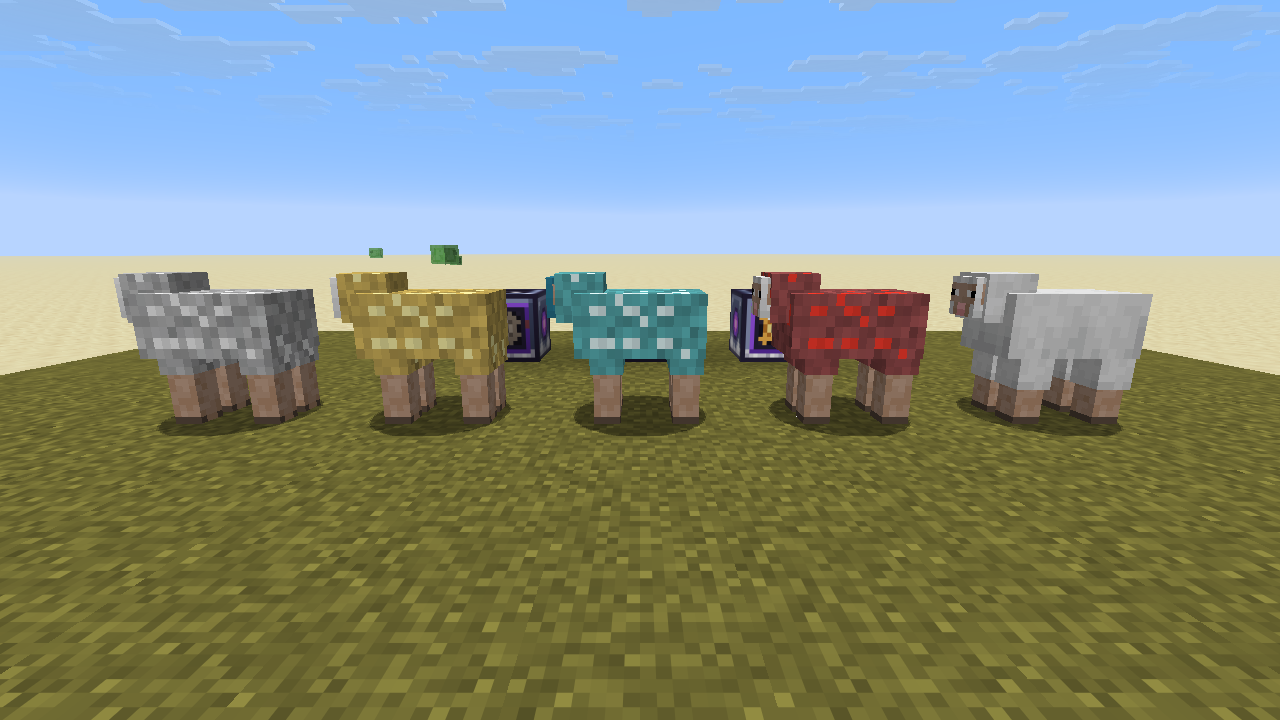
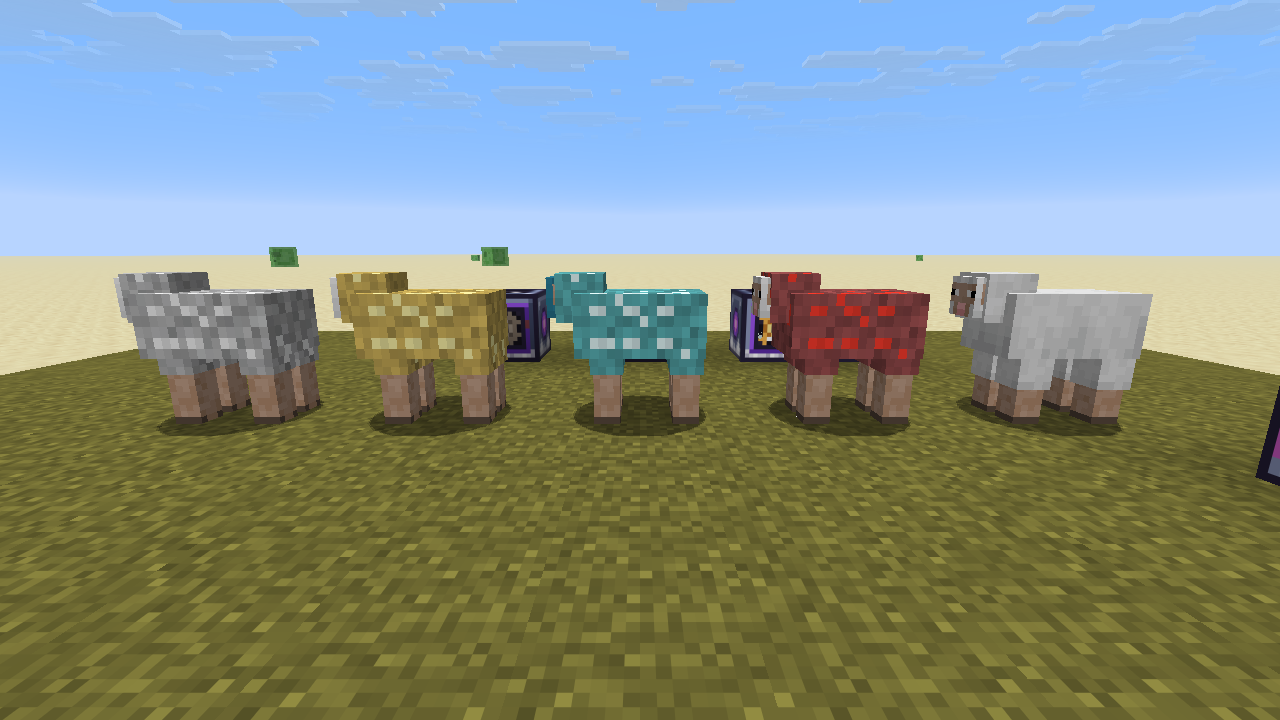
Add Creative Generator: infinite FE block for creative testing
Pushes FE into adjacent receivers every tick (configurable rate) and
offers unlimited extraction on all sides. Creative-only, cartoon-styled
animated texture, JEI info page and a game test.

Claude-Session: https://claude.ai/code/session_012iurxjF5Am1zCyJTywqAyz

diff --git a/src/main/java/com/jax3/resourcefulsheep/blockentity/CreativeGeneratorBlockEntity.java b/src/main/java/com/jax3/resourcefulsheep/blockentity/CreativeGeneratorBlockEntity.java
@@ -1,0 +1,49 @@
+package com.jax3.resourcefulsheep.blockentity;
+
+import com.jax3.resourcefulsheep.config.ModConfigs;
+import com.jax3.resourcefulsheep.registry.ModBlockEntities;
+import net.minecraft.core.BlockPos;
+import net.minecraft.core.Direction;
+import net.minecraft.server.level.ServerLevel;
+import net.minecraft.world.level.block.entity.BlockEntity;
+import net.minecraft.world.level.block.state.BlockState;
+import net.neoforged.neoforge.capabilities.Capabilities;
+import net.neoforged.neoforge.transfer.energy.EnergyHandler;
+import net.neoforged.neoforge.transfer.energy.InfiniteEnergyHandler;
+import net.neoforged.neoforge.transfer.transaction.Transaction;
+
+/** Pushes up to {@code creativeGeneratorOutput} FE per tick into each adjacent energy receiver. */
+public class CreativeGeneratorBlockEntity extends BlockEntity {
+    private long lastTickPushed;
+
+    public CreativeGeneratorBlockEntity(BlockPos pos, BlockState state) {
+        super(ModBlockEntities.CREATIVE_GENERATOR.get(), pos, state);
+    }
+
+    public void serverTick(ServerLevel level, BlockPos pos) {
+        int rate = ModConfigs.getInt(ModConfigs.SERVER.creativeGeneratorOutput);
+        if (rate <= 0) return;
+        long pushed = 0;
+        for (Direction dir : Direction.values()) {
+            BlockPos target = pos.relative(dir);
+            if (level.getBlockEntity(target) instanceof CreativeGeneratorBlockEntity) continue; // avoid generator loops
+            EnergyHandler handler = level.getCapability(Capabilities.Energy.BLOCK, target, dir.getOpposite());
+            if (handler == null) continue;
+            try (Transaction tx = Transaction.openRoot()) {
+                pushed += handler.insert(rate, tx);
+                tx.commit();
+            }
+        }
+        lastTickPushed = pushed;
+    }
+
+    /** FE pushed to neighbours during the last tick (used by tests and for debugging). */
+    public long getLastTickPushed() {
+        return lastTickPushed;
+    }
+
+    /** Every side exposes an infinite source, so pull-based cables work too. */
+    public EnergyHandler getEnergyHandler() {
+        return InfiniteEnergyHandler.INSTANCE;
+    }
+}

diff --git a/tools/generate_data.py b/tools/generate_data.py
@@ -132,12 +132,21 @@ def block_models():
                 v["y"] = rot
             variants[f"active={active},facing={facing}"] = v
     write(os.path.join(ASSETS, "blockstates", "mechanical_separator.json"), {"variants": variants})
+    write(os.path.join(ASSETS, "models", "block", "creative_generator.json"),
+          {"parent": "minecraft:block/cube_all", "textures": {"all": f"{MOD}:block/creative_generator"}})
+    write(os.path.join(ASSETS, "blockstates", "creative_generator.json"),
+          {"variants": {"": {"model": f"{MOD}:block/creative_generator"}}})
+    write(os.path.join(ASSETS, "items", "creative_generator.json"),
+          {"model": {"type": "minecraft:model", "model": f"{MOD}:block/creative_generator"}})
 
 
 def lang():
     en = {
         "itemGroup.resourcefulsheep": "Resourceful Sheep",
         "block.resourcefulsheep.mechanical_separator": "Mechanical Separator",
+        "block.resourcefulsheep.creative_generator": "Creative Generator",
+        "tooltip.resourcefulsheep.creative_generator": "Infinite Forge Energy for testing. Pushes FE into adjacent machines; cables can also pull from any side.",
+        "jei.resourcefulsheep.info.creative_generator": "Creative-only. Produces unlimited Forge Energy (FE): every tick it pushes power into all adjacent energy receivers (rate set by creativeGeneratorOutput in the server config), and cables or machines can pull unlimited FE from any side. Place it next to a Mechanical Separator to test without a power setup.",
         "item.resourcefulsheep.resource_wool": "Resource Wool",
         "item.resourcefulsheep.resource_wool.named": "%s Wool",
         "item.resourcefulsheep.resource_wool.unknown": "Unknown Resource Wool",
@@ -219,6 +228,7 @@ def lang():
         "resourcefulsheep.configuration.section.resourcefulsheep.client.toml.title": "Client",
         "resourcefulsheep.configuration.sheep": "Sheep",
         "resourcefulsheep.configuration.separator": "Mechanical Separator",
+        "resourcefulsheep.configuration.creative_generator": "Creative Generator",
     }
     for name, r in RESOURCES.items():
         en[f"resource.{MOD}.{name}"] = r["display"]

diff --git a/src/main/java/com/jax3/resourcefulsheep/blocks/CreativeGeneratorBlock.java b/src/main/java/com/jax3/resourcefulsheep/blocks/CreativeGeneratorBlock.java
@@ -1,0 +1,44 @@
+package com.jax3.resourcefulsheep.blocks;
+
+import com.jax3.resourcefulsheep.blockentity.CreativeGeneratorBlockEntity;
+import com.jax3.resourcefulsheep.registry.ModBlockEntities;
+import net.minecraft.core.BlockPos;
+import net.minecraft.core.particles.DustParticleOptions;
+import net.minecraft.server.level.ServerLevel;
+import net.minecraft.util.RandomSource;
+import net.minecraft.world.level.Level;
+import net.minecraft.world.level.block.BaseEntityBlock;
+import net.minecraft.world.level.block.entity.BlockEntity;
+import net.minecraft.world.level.block.entity.BlockEntityTicker;
+import net.minecraft.world.level.block.entity.BlockEntityType;
+import net.minecraft.world.level.block.state.BlockState;
+import org.jspecify.annotations.Nullable;
+
+/**
+ * Creative-only infinite Forge Energy source for testing. Every tick it pushes FE into all adjacent blocks that
+ * accept energy, and cables or machines may also pull unlimited FE from it on any side. It has no recipe.
+ */
+public class CreativeGeneratorBlock extends BaseEntityBlock {
+    public CreativeGeneratorBlock(Properties properties) {
+        super(properties);
+    }
+
+    @Override
+    public BlockEntity newBlockEntity(BlockPos pos, BlockState state) {
+        return new CreativeGeneratorBlockEntity(pos, state);
+    }
+
+    @Override
+    public <T extends BlockEntity> @Nullable BlockEntityTicker<T> getTicker(Level level, BlockState state, BlockEntityType<T> type) {
+        if (!(level instanceof ServerLevel serverLevel)) return null;
+        return createTickerHelper(type, ModBlockEntities.CREATIVE_GENERATOR.get(),
+                (l, pos, s, be) -> be.serverTick(serverLevel, pos));
+    }
+
+    @Override
+    public void animateTick(BlockState state, Level level, BlockPos pos, RandomSource random) {
+        if (random.nextInt(3) != 0) return;
+        double x = pos.getX() + random.nextDouble(), y = pos.getY() + 1.02, z = pos.getZ() + random.nextDouble();
+        level.addParticle(new DustParticleOptions(random.nextBoolean() ? 0xFF6AE6 : 0x9A52F0, 0.8F), x, y, z, 0, 0.03, 0);
+    }
+}

diff --git a/src/main/java/com/jax3/resourcefulsheep/gametest/ModGameTests.java b/src/main/java/com/jax3/resourcefulsheep/gametest/ModGameTests.java
@@ -88,6 +88,7 @@ public final class ModGameTests {
         TESTS.put("separating_recipe_handles_plain_wool", ModGameTests::separatingRecipe);
         TESTS.put("config_multipliers_affect_values", ModGameTests::configMultipliers);
         TESTS.put("custom_definition_with_tag_parses", ModGameTests::customDefinitionParses);
+        TESTS.put("creative_generator_powers_separator", ModGameTests::creativeGeneratorPowers);
         TESTS.forEach((name, fn) -> FUNCTIONS.register(name, () -> fn));
     }
 
@@ -436,5 +437,22 @@ public final class ModGameTests {
         h.assertTrue(SheepResource.DEFINITION_CODEC.parse(ops, JsonParser.parseString(bad)).error().isPresent(), "missing items are reported as errors");
         h.assertTrue(ModItems.RESOURCE_WOOL.get() != null, "items registered");
         h.succeed();
+    }
+
+    private static void creativeGeneratorPowers(GameTestHelper h) {
+        BlockPos pos = new BlockPos(3, 1, 3);
+        MechanicalSeparatorBlockEntity be = separator(h, pos); // facing north: back (south) accepts FE
+        h.setBlock(new BlockPos(3, 1, 4), ModBlocks.CREATIVE_GENERATOR.get());
+        be.getInventory().setStack(SeparatorInventory.INPUT, ResourceWoolItem.create(IRON, 1));
+        // Pull side: any face of the generator offers unlimited energy.
+        EnergyHandler source = h.getLevel().getCapability(Capabilities.Energy.BLOCK, h.absolutePos(new BlockPos(3, 1, 4)), Direction.UP);
+        h.assertTrue(source != null, "generator exposes an energy handler");
+        try (Transaction tx = Transaction.openRoot()) {
+            h.assertTrue(source.extract(5_000_000, tx) == 5_000_000, "unlimited extraction");
+        }
+        h.succeedWhen(() -> {
+            h.assertTrue(be.getEnergy().getEnergy() > 0, "generator should push FE into the separator");
+            h.assertTrue(be.getInventory().getStack(SeparatorInventory.PRIMARY).is(Items.RAW_IRON), "separator runs on generator power");
+        });
     }
 }

diff --git a/tools/generate_textures.py b/tools/generate_textures.py
@@ -459,6 +459,42 @@ def generate_block():
         fh.write('{\n  "animation": {\n    "frametime": 3,\n    "interpolate": false\n  }\n}\n')
 
 
+CREATIVE_GEN = [  # creative energy source: magenta-rimmed plate with a big glowing energy core
+    "OOOOOOOOOOOOOOOO",
+    "OHHHHHHHHHHHHHMO",
+    "OHggggggggggggSO",
+    "OgBbMMOOOOMMBbgO",
+    "OgbSMOPPPPOMbSgO",
+    "OgMMOPpGGpPOMMgO",
+    "OgMOPpGEEGpPOMgO",
+    "OgMOPGEEeGGPOMgO",
+    "OgMOPGGEEEGPOMgO",
+    "OgMOPpGGEepPOMgO",
+    "OgMMOPpGEpPOMMgO",
+    "OgbSMOPPPPOMbSgO",
+    "OgBbMMOOOOMMBbgO",
+    "OHggggggggggggSO",
+    "OHbSSSSSSSSSSbSO",
+    "OOOOOOOOOOOOOOOO",
+]
+
+
+def generate_creative_generator():
+    """4-frame pulsing glow animation, same on every face."""
+    strip = Image.new("RGBA", (16, 64), CLEAR)
+    pulses = [0.0, 0.35, 0.7, 0.35]
+    for f, t in enumerate(pulses):
+        pal = dict(CARTOON)
+        pal["g"] = mix(hexc("#c23bb8"), hexc("#ff9af0"), t)        # rim glow
+        pal["G"] = mix(hexc("#ff6ae6"), hexc("#ffe6fd"), t)        # core glow
+        pal["P"] = mix(hexc("#9a52f0"), hexc("#c99bff"), t)
+        frame = grid(CREATIVE_GEN, pal)
+        strip.paste(frame, (0, f * 16))
+    strip.save(out("block/creative_generator.png"))
+    with open(out("block/creative_generator.png.mcmeta"), "w") as fh:
+        fh.write('{\n  "animation": {\n    "frametime": 4,\n    "interpolate": true\n  }\n}\n')
+
+
 # ---------------------------------------------------------------------------
 # GUI (256x256), dark-slate theme shared with Mycelial Power: outlined panel,
 # recessed slots and bars, tick-marked vertical energy gauge, purple glow fills.
@@ -740,6 +776,7 @@ def main():
     generate_wool_items()
     generate_sheep_fur()
     generate_block()
+    generate_creative_generator()
     generate_gui()
     generate_jei()
     print("Textures written to", os.path.abspath(ROOT))

diff --git a/src/main/java/com/jax3/resourcefulsheep/client/DevScreenshotHarness.java b/src/main/java/com/jax3/resourcefulsheep/client/DevScreenshotHarness.java
@@ -175,12 +175,15 @@ public final class DevScreenshotHarness {
         level.setBlock(idle, ModBlocks.MECHANICAL_SEPARATOR.get().defaultBlockState().setValue(MechanicalSeparatorBlock.FACING, Direction.SOUTH), 3);
         level.setBlock(active, ModBlocks.MECHANICAL_SEPARATOR.get().defaultBlockState().setValue(MechanicalSeparatorBlock.FACING, Direction.SOUTH), 3);
         level.setBlock(o.offset(0, 0, -8), ModBlocks.MECHANICAL_SEPARATOR.get().defaultBlockState().setValue(MechanicalSeparatorBlock.FACING, Direction.WEST), 3);
+        level.setBlock(o.offset(3, 0, -8), ModBlocks.CREATIVE_GENERATOR.get().defaultBlockState(), 3);
+        level.setBlock(o.offset(5, 0, -3), ModBlocks.CREATIVE_GENERATOR.get().defaultBlockState(), 3);
         if (level.getBlockEntity(active) instanceof MechanicalSeparatorBlockEntity be) {
             fill(be, 64);
         }
         // Inventory: every wool type plus the machine.
         player.getInventory().clearContent();
         player.getInventory().add(new ItemStack(ModItems.MECHANICAL_SEPARATOR.get(), 4));
+        player.getInventory().add(new ItemStack(ModItems.CREATIVE_GENERATOR.get(), 1));
         SheepResourceRegistry.server().all().forEach(r -> player.getInventory().add(ResourceWoolItem.create(r.id(), 16)));
         player.getInventory().add(new ItemStack(Items.IRON_BLOCK, 8));
         player.getInventory().add(new ItemStack(Items.SHEARS));

diff --git a/src/main/java/com/jax3/resourcefulsheep/client/ResourcefulSheepClient.java b/src/main/java/com/jax3/resourcefulsheep/client/ResourcefulSheepClient.java
@@ -48,6 +48,7 @@ public final class ResourcefulSheepClient {
         NeoForge.EVENT_BUS.addListener(ResourcefulSheepClient::onRecipesReceived);
         NeoForge.EVENT_BUS.addListener(ResourcefulSheepClient::onLoggingOut);
         NeoForge.EVENT_BUS.addListener(ResourcefulSheepClient::onEntityTick);
+        NeoForge.EVENT_BUS.addListener(ResourcefulSheepClient::onItemTooltip);
 
         DevScreenshotHarness.registerIfEnabled();
     }
@@ -83,6 +84,13 @@ public final class ResourcefulSheepClient {
     private static void onLoggingOut(ClientPlayerNetworkEvent.LoggingOut event) {
         SheepResourceRegistry.setClient(new SheepResourceRegistry(Map.of()));
         SeparationLookup.setClientRecipes(RecipeMap.EMPTY);
+    }
+
+    private static void onItemTooltip(net.neoforged.neoforge.event.entity.player.ItemTooltipEvent event) {
+        if (event.getItemStack().is(com.jax3.resourcefulsheep.registry.ModItems.CREATIVE_GENERATOR.get())) {
+            event.getToolTip().add(1, net.minecraft.network.chat.Component.translatable("tooltip.resourcefulsheep.creative_generator")
+                    .withStyle(net.minecraft.ChatFormatting.GRAY));
+        }
     }
 
     /** Occasional resource-coloured particles around infused sheep that still have wool. */

diff --git a/src/main/java/com/jax3/resourcefulsheep/config/ModConfigs.java b/src/main/java/com/jax3/resourcefulsheep/config/ModConfigs.java
@@ -96,6 +96,7 @@ public final class ModConfigs {
         public final ModConfigSpec.IntValue autoPushInterval;
         public final ModConfigSpec.BooleanValue redstoneControlEnabled;
         public final ModConfigSpec.EnumValue<RedstoneMode> defaultRedstoneMode;
+        public final ModConfigSpec.IntValue creativeGeneratorOutput;
 
         Server(ModConfigSpec.Builder b) {
             b.comment("Resource infusion of sheep. Per-resource settings live in data/<namespace>/resourcefulsheep/sheep_resources/*.json")
@@ -176,6 +177,11 @@ public final class ModConfigs {
                     .define("redstoneControlEnabled", true);
             defaultRedstoneMode = b.comment("Redstone mode for newly placed machines.")
                     .defineEnum("defaultRedstoneMode", RedstoneMode.IGNORED);
+            b.pop();
+
+            b.comment("Creative Generator (creative-only infinite FE source for testing)").push("creative_generator");
+            creativeGeneratorOutput = b.comment("FE pushed into each adjacent energy receiver per tick (receivers still apply their own input limits). 0 disables pushing.")
+                    .defineInRange("creativeGeneratorOutput", 1_000_000, 0, Integer.MAX_VALUE);
             b.pop();
         }
 

diff --git a/src/main/java/com/jax3/resourcefulsheep/registry/ModBlocks.java b/src/main/java/com/jax3/resourcefulsheep/registry/ModBlocks.java
@@ -1,6 +1,7 @@
 package com.jax3.resourcefulsheep.registry;
 
 import com.jax3.resourcefulsheep.ResourcefulSheep;
+import com.jax3.resourcefulsheep.blocks.CreativeGeneratorBlock;
 import com.jax3.resourcefulsheep.blocks.MechanicalSeparatorBlock;
 import net.minecraft.world.level.block.SoundType;
 import net.minecraft.world.level.material.MapColor;
@@ -20,6 +21,15 @@ public final class ModBlocks {
                     .sound(SoundType.METAL)
                     .pushReaction(PushReaction.IMMOVEABLE)
                     .lightLevel(state -> state.getValue(MechanicalSeparatorBlock.ACTIVE) ? 7 : 0));
+
+    /** Creative-only infinite FE source: unbreakable in survival, no recipe. */
+    public static final DeferredBlock<CreativeGeneratorBlock> CREATIVE_GENERATOR = REGISTER.registerBlock("creative_generator",
+            CreativeGeneratorBlock::new,
+            p -> p.mapColor(MapColor.COLOR_PURPLE)
+                    .strength(-1.0F, 3_600_000.0F)
+                    .noLootTable()
+                    .sound(SoundType.METAL)
+                    .lightLevel(state -> 10));
 
     private ModBlocks() {}
 }

diff --git a/src/main/java/com/jax3/resourcefulsheep/registry/ModBlockEntities.java b/src/main/java/com/jax3/resourcefulsheep/registry/ModBlockEntities.java
@@ -1,6 +1,7 @@
 package com.jax3.resourcefulsheep.registry;
 
 import com.jax3.resourcefulsheep.ResourcefulSheep;
+import com.jax3.resourcefulsheep.blockentity.CreativeGeneratorBlockEntity;
 import com.jax3.resourcefulsheep.blockentity.MechanicalSeparatorBlockEntity;
 import java.util.function.Supplier;
 import net.minecraft.core.registries.Registries;
@@ -12,6 +13,9 @@ public final class ModBlockEntities {
 
     public static final Supplier<BlockEntityType<MechanicalSeparatorBlockEntity>> MECHANICAL_SEPARATOR = REGISTER.register("mechanical_separator",
             () -> new BlockEntityType<>(MechanicalSeparatorBlockEntity::new, ModBlocks.MECHANICAL_SEPARATOR.get()));
+
+    public static final Supplier<BlockEntityType<CreativeGeneratorBlockEntity>> CREATIVE_GENERATOR = REGISTER.register("creative_generator",
+            () -> new BlockEntityType<>(CreativeGeneratorBlockEntity::new, ModBlocks.CREATIVE_GENERATOR.get()));
 
     private ModBlockEntities() {}
 }

diff --git a/src/main/java/com/jax3/resourcefulsheep/integration/jei/ResourcefulSheepJeiPlugin.java b/src/main/java/com/jax3/resourcefulsheep/integration/jei/ResourcefulSheepJeiPlugin.java
@@ -61,6 +61,7 @@ public class ResourcefulSheepJeiPlugin implements IModPlugin {
             registration.addItemStackInfo(wool, Component.translatable("jei.resourcefulsheep.info.resource_wool"));
         }
         registration.addItemStackInfo(new ItemStack(ModItems.MECHANICAL_SEPARATOR.get()), Component.translatable("jei.resourcefulsheep.info.separator"));
+        registration.addItemStackInfo(new ItemStack(ModItems.CREATIVE_GENERATOR.get()), Component.translatable("jei.resourcefulsheep.info.creative_generator"));
     }
 
     static List<SeparationDisplay> buildSeparations(SheepResourceRegistry resources) {

diff --git a/src/main/java/com/jax3/resourcefulsheep/registry/ModCapabilities.java b/src/main/java/com/jax3/resourcefulsheep/registry/ModCapabilities.java
@@ -9,5 +9,6 @@ public final class ModCapabilities {
     public static void register(RegisterCapabilitiesEvent event) {
         event.registerBlockEntity(Capabilities.Item.BLOCK, ModBlockEntities.MECHANICAL_SEPARATOR.get(), (be, side) -> be.getItemHandler(side));
         event.registerBlockEntity(Capabilities.Energy.BLOCK, ModBlockEntities.MECHANICAL_SEPARATOR.get(), (be, side) -> be.getEnergyHandler(side));
+        event.registerBlockEntity(Capabilities.Energy.BLOCK, ModBlockEntities.CREATIVE_GENERATOR.get(), (be, side) -> be.getEnergyHandler());
     }
 }
